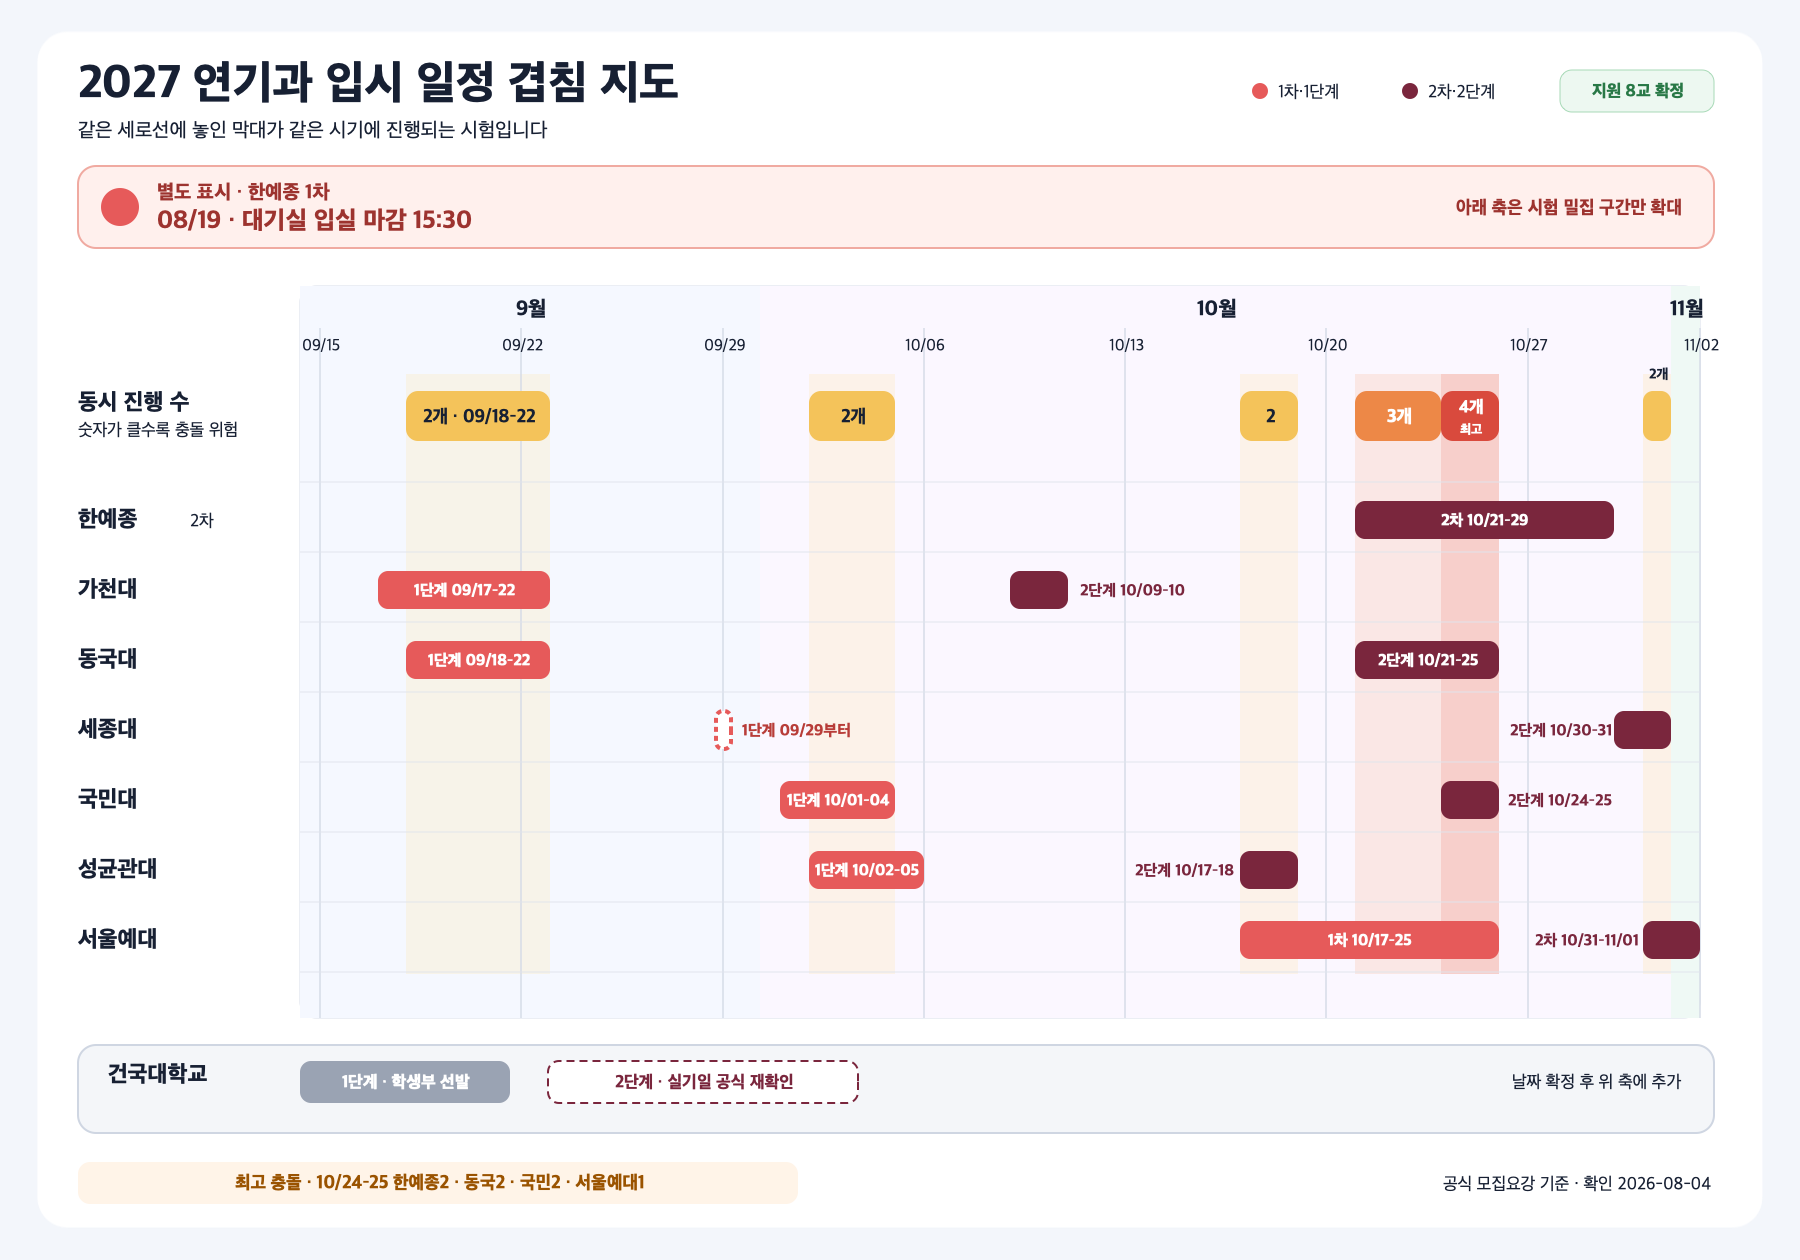
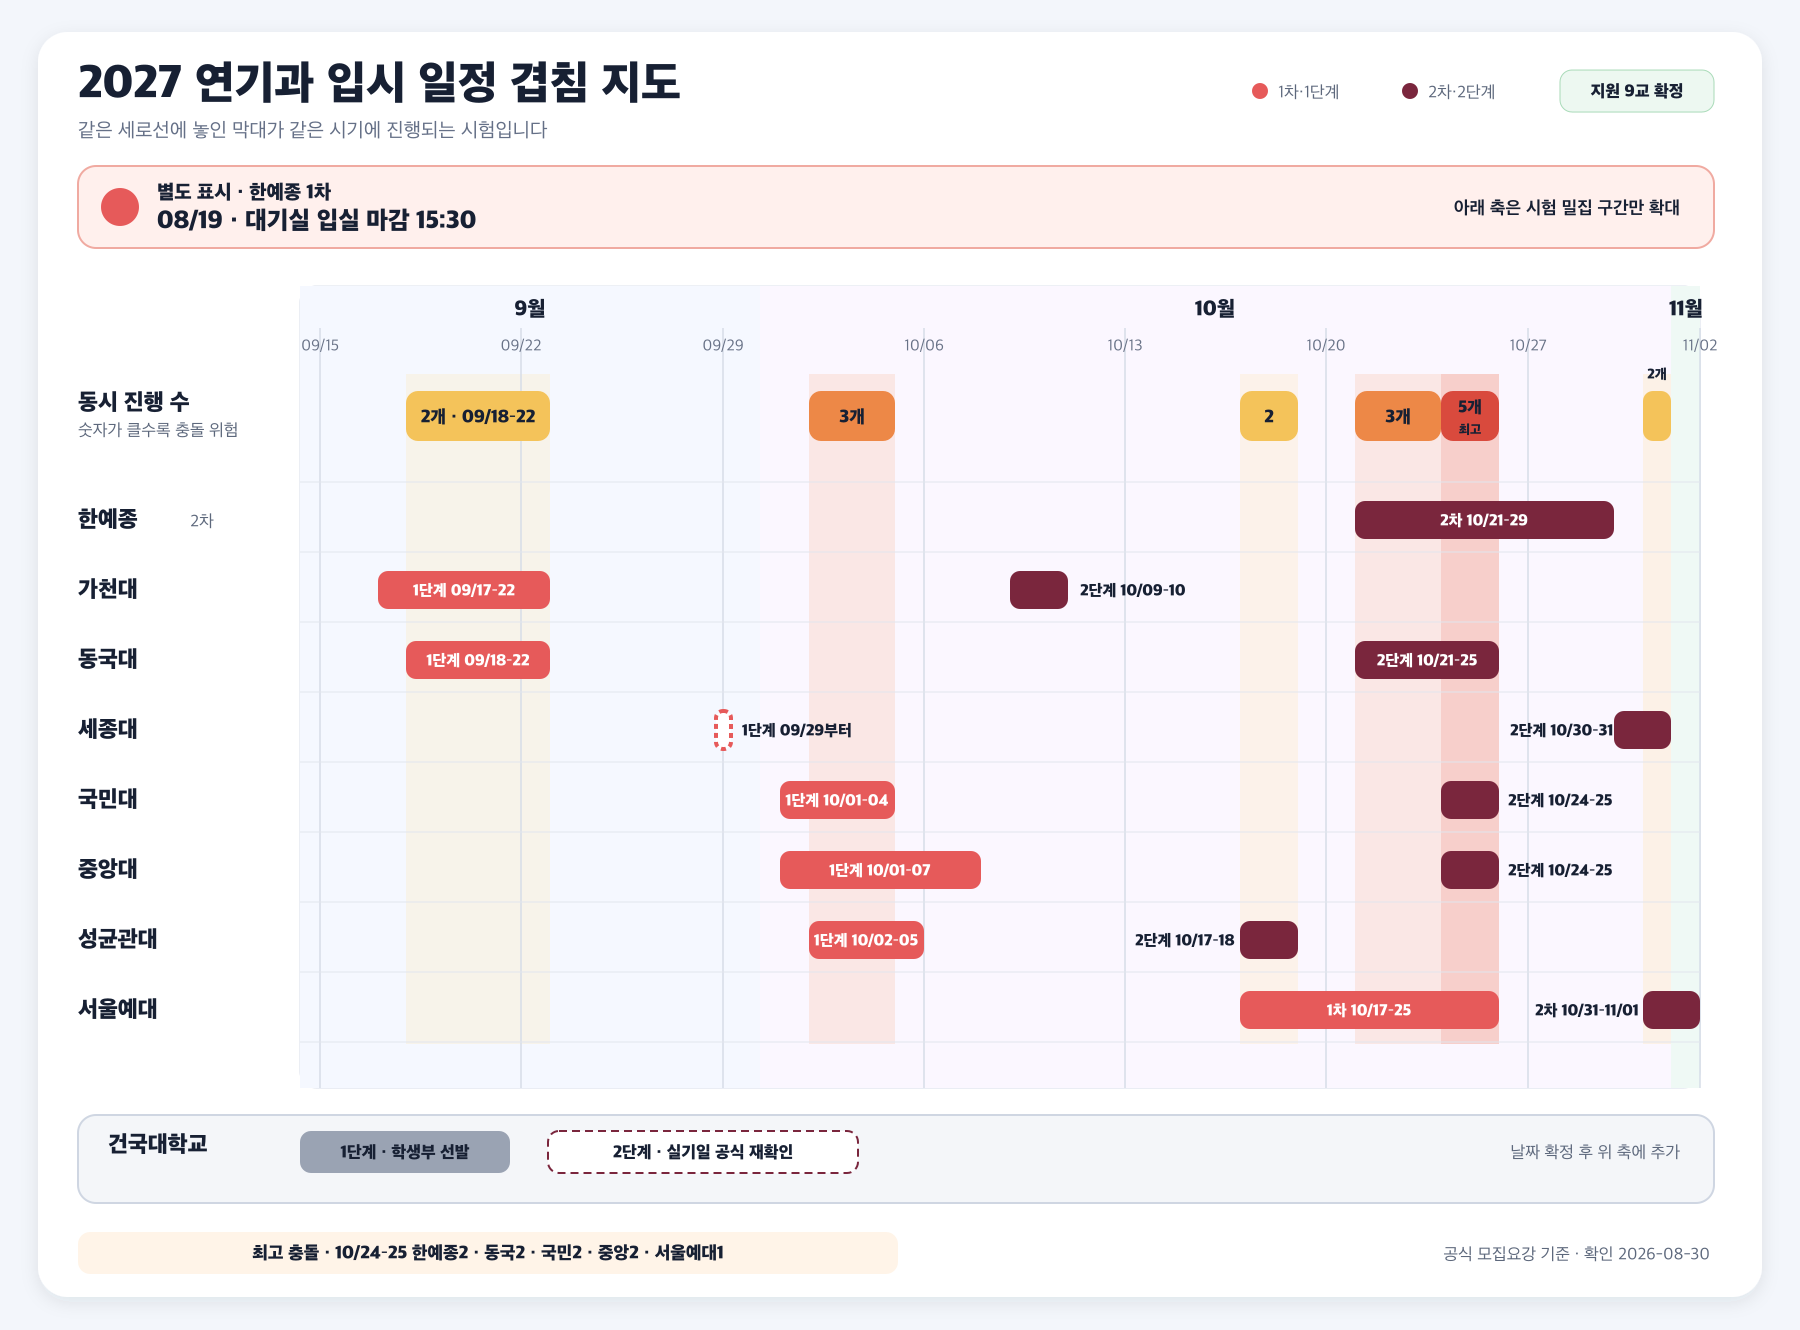
vault backup: 2026-08-30 17:31:04

diff --git a/정리/입시/2027 연기과 시험 일정 그래프.md b/정리/입시/2027 연기과 시험 일정 그래프.md
@@ -1,8 +1,8 @@
 ---
 type: dashboard
 admission_year: 2027
-scope: 연기과 입시 시험 일정 8개교
-verified: 2026-08-04
+scope: 연기과 입시 시험 일정 9개교
+verified: 2026-08-30
 status: 공식 모집요강 기준, 개인 고사시간·정정 공지 재확인 필요
 tags: [입시/연기, 입시/일정, 2027학년도]
 ---
@@ -31,6 +31,7 @@ gantt
     동국 1단계 · 지원 확정         :crit, dongguk1, 2026-09-18, 2026-09-23
     세종 1단계 시작 · 지원 확정     :crit, sejong1, 2026-09-29, 1d
     국민 1단계 · 지원 확정          :crit, kookmin1, 2026-10-01, 2026-10-05
+    중앙 1단계 · 지원 확정          :crit, cau1, 2026-10-01, 2026-10-08
     성균관 1단계 · 지원 확정       :crit, skku1, 2026-10-02, 2026-10-06
     서울예대 1차 · 지원 확정        :crit, seoularts1, 2026-10-17, 2026-10-26
 
@@ -40,12 +41,13 @@ gantt
     한예종 2차 · 지원 확정         :done, karts2, 2026-10-21, 2026-10-30
     동국 2단계 · 지원 확정         :done, dongguk2, 2026-10-21, 2026-10-26
     국민 2단계 · 지원 확정          :done, kookmin2, 2026-10-24, 2026-10-26
+    중앙 2단계 · 지원 확정          :done, cau2, 2026-10-24, 2026-10-26
     세종 2단계 · 지원 확정          :done, sejong2, 2026-10-30, 2026-11-01
     서울예대 2차 · 지원 확정        :done, seoularts2, 2026-10-31, 2026-11-02
 ```
 
 > [!danger] 가장 붐비는 구간: 10월 21일~25일
-> 한예종 2차·동국 2단계·서울예대 1차가 겹치고, 24~25일에는 국민 2단계까지 겹친다. 개인 고사일 발표 즉시 충돌 여부를 확인한다.
+> 한예종 2차·동국 2단계·서울예대 1차가 겹치고, 24~25일에는 국민·중앙 2단계까지 더해져 **5개 시험**이 겹친다. 개인 고사일 발표 즉시 충돌 여부를 확인한다.
 
 ## 월별 압축 보기
 
@@ -54,10 +56,10 @@ gantt
 | 8월 | **08-19** | **한예종 1차 — 본인 15:30까지 입실** | 개인 일정 확정 |
 | 9월 | 09-17~09-22 | 가천 1단계·동국 1단계 | 높음 |
 | 9월 | 09-29~ | 세종 1단계 시작 | 개인일 확인 필요 |
-| 10월 | 10-01~10-05 | 국민 1단계·성균관 1단계 | 높음 |
+| 10월 | 10-01~10-07 | 국민 1단계·중앙 1단계·성균관 1단계 | 높음 |
 | 10월 | 10-09~10-10 | 가천 2단계 | 단독 |
 | 10월 | 10-17~10-18 | 성균관 2단계·서울예대 1차 | 높음 |
-| 10월 | **10-21~10-25** | 한예종 2차·동국 2단계·서울예대 1차·국민 2단계 | **최고** |
+| 10월 | **10-21~10-25** | 한예종 2차·동국 2단계·서울예대 1차·국민 2단계·중앙 2단계 | **최고** |
 | 10~11월 | 10-30~11-01 | 세종 2단계·서울예대 2차 | 높음 |
 
 ## 학교별 날짜표
@@ -71,6 +73,7 @@ gantt
 | **🟩 확정** | **[[2027 연기과 이미지/학교별/동국대학교|동국대학교]]** | 09-18~09-22 | 10-21~10-25 | 고사 안내 09-16·10-19 확인 |
 | **🟩 확정** | **[[2027 연기과 이미지/학교별/세종대학교|세종대학교]]** | 09-29부터 | 10-30~10-31 | 1단계 개인일·종료일 09-22 공지 확인 |
 | **🟩 확정** | **[[2027 연기과 이미지/학교별/국민대학교|국민대학교]]** | 10-01~10-04 | 10-24~10-25 | 고사 안내 09-22·10-20 확인 |
+| **🟩 확정** | **[[2027 연기과 이미지/학교별/중앙대학교|중앙대학교]]** | 10-01~10-07 | 10-24~10-25 | 고사 안내 09-22 14:00·10-13 14:00 확인 |
 | **🟩 확정** | **[[2027 연기과 이미지/학교별/성균관대학교|성균관대학교]]** | 10-02~10-05 | 10-17~10-18 | 개인 고사시간 확인 |
 | **🟩 확정** | **[[2027 연기과 이미지/학교별/서울예술대학교|서울예술대학교]]** | 10-17~10-25 | 10-31~11-01 | 1차 개인일은 10-12 16:00 이후 확인 |
 | **🟩 확정** | **[[2027 연기과 이미지/학교별/건국대학교|건국대학교]]** | 학생부 선발, 실기 없음 | **최종 모집요강·고사 안내 재확인** | 날짜 확인 후 일정표에 반영 |
@@ -88,6 +91,7 @@ gantt
 - [동국대학교 2027학년도 수시모집요강](https://ipsi.dongguk.edu/upload/file/20260601115911UVEHWG.PDF), 확인 2026-08-04
 - [세종대학교 2027학년도 수시모집요강 공지](https://ipsi.sejong.ac.kr/sub_page/sub5/0107_view.asp?B_CATEGORY=0&B_CODE=BOARD_1455878015&IDX=1128&gotopage=1&search_category=&searchstring=&tab1=5), 확인 2026-08-04
 - [국민대학교 2027학년도 수시모집요강](https://admission.kookmin.ac.kr/nonschedule/notice.php?ctype=view&no=1070&page=1), 확인 2026-08-04
+- [중앙대학교 2027학년도 수시모집요강](https://admission.cau.ac.kr/file/pdfDown.pdf?ofn=%EC%A4%91%EC%95%99%EB%8C%80%ED%95%99%EA%B5%90_2027%ED%95%99%EB%85%84%EB%8F%84+%EC%88%98%EC%8B%9C%EB%AA%A8%EC%A7%91%EC%9A%94%EA%B0%95%28%EB%8B%A8%EB%A9%B4%29_%EA%B3%B5%EA%B3%A0%EC%9A%A9.pdf&sfn=20260609111455769_c6144e06ef38475d8ce9563f87b7f3b4.pdf), p.68, 확인 2026-08-30
 - [성균관대학교 2027학년도 수시모집요강](https://admission.skku.edu/upload/guide/20260529115520H43SMR.pdf), 확인 2026-08-04
 - [서울예술대학교 2027학년도 수시 전문학사학위과정 모집요강](https://www.seoularts.ac.kr/web/cop/bbsWeb/selectBoardDetail.do?bbsId=BBSMSTR_000000000702&nttId=242297&nttIds=0), 확인 2026-08-04
 - [건국대학교 2027학년도 입학전형 시행계획](https://enter.konkuk.ac.kr/file/pdfDown.pdf?ofn=%5B%EC%B5%9C%EC%A2%85_%EB%86%8D%EC%96%B4%EC%B4%8C%EB%B0%98%EC%98%81%5D+2027+%EC%9E%85%ED%95%99%EC%A0%84%ED%98%95%EC%8B%9C%ED%96%89%EA%B3%84%ED%9A%8D_250714.pdf&sfn=20250714115345568_6455.pdf), 확인 2026-08-04
